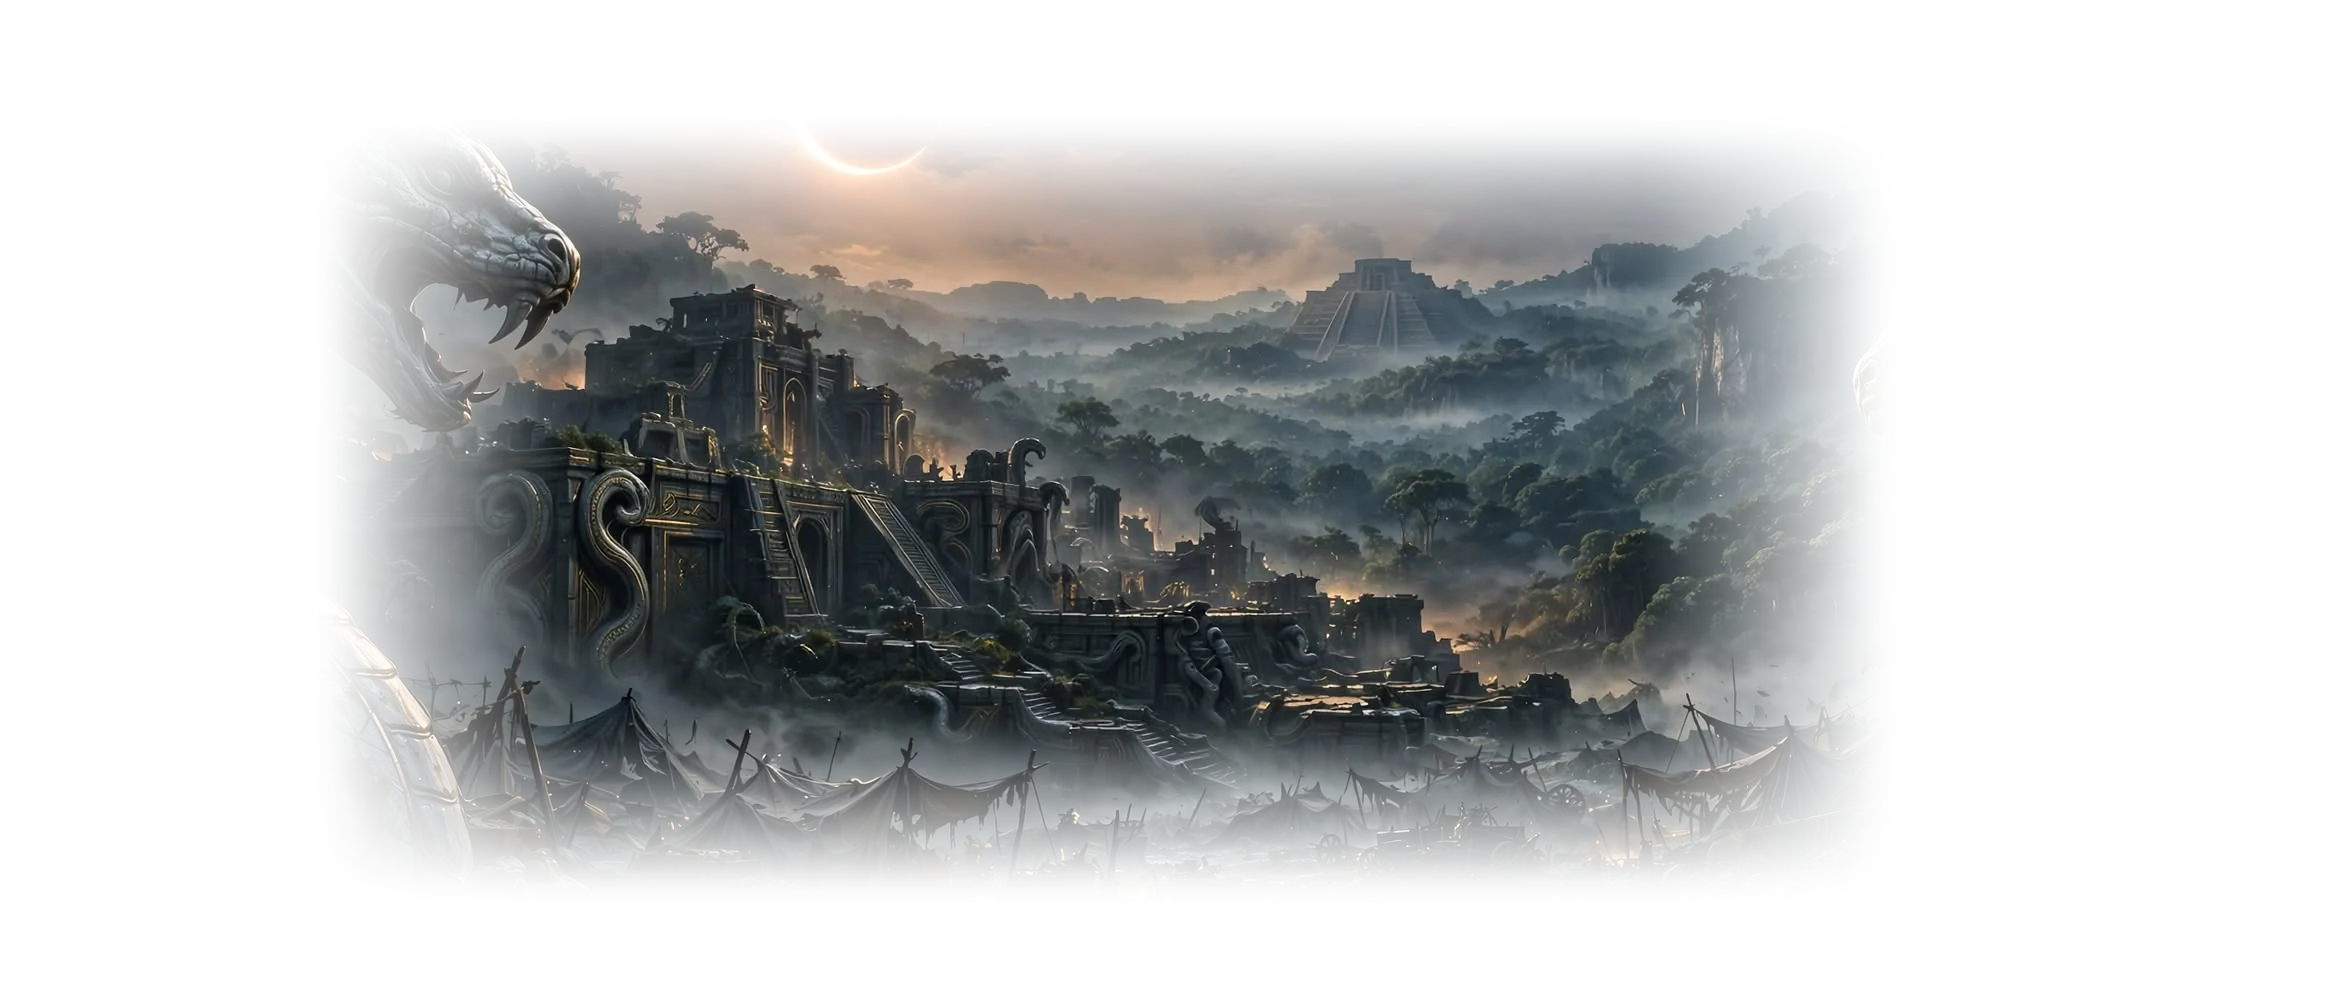
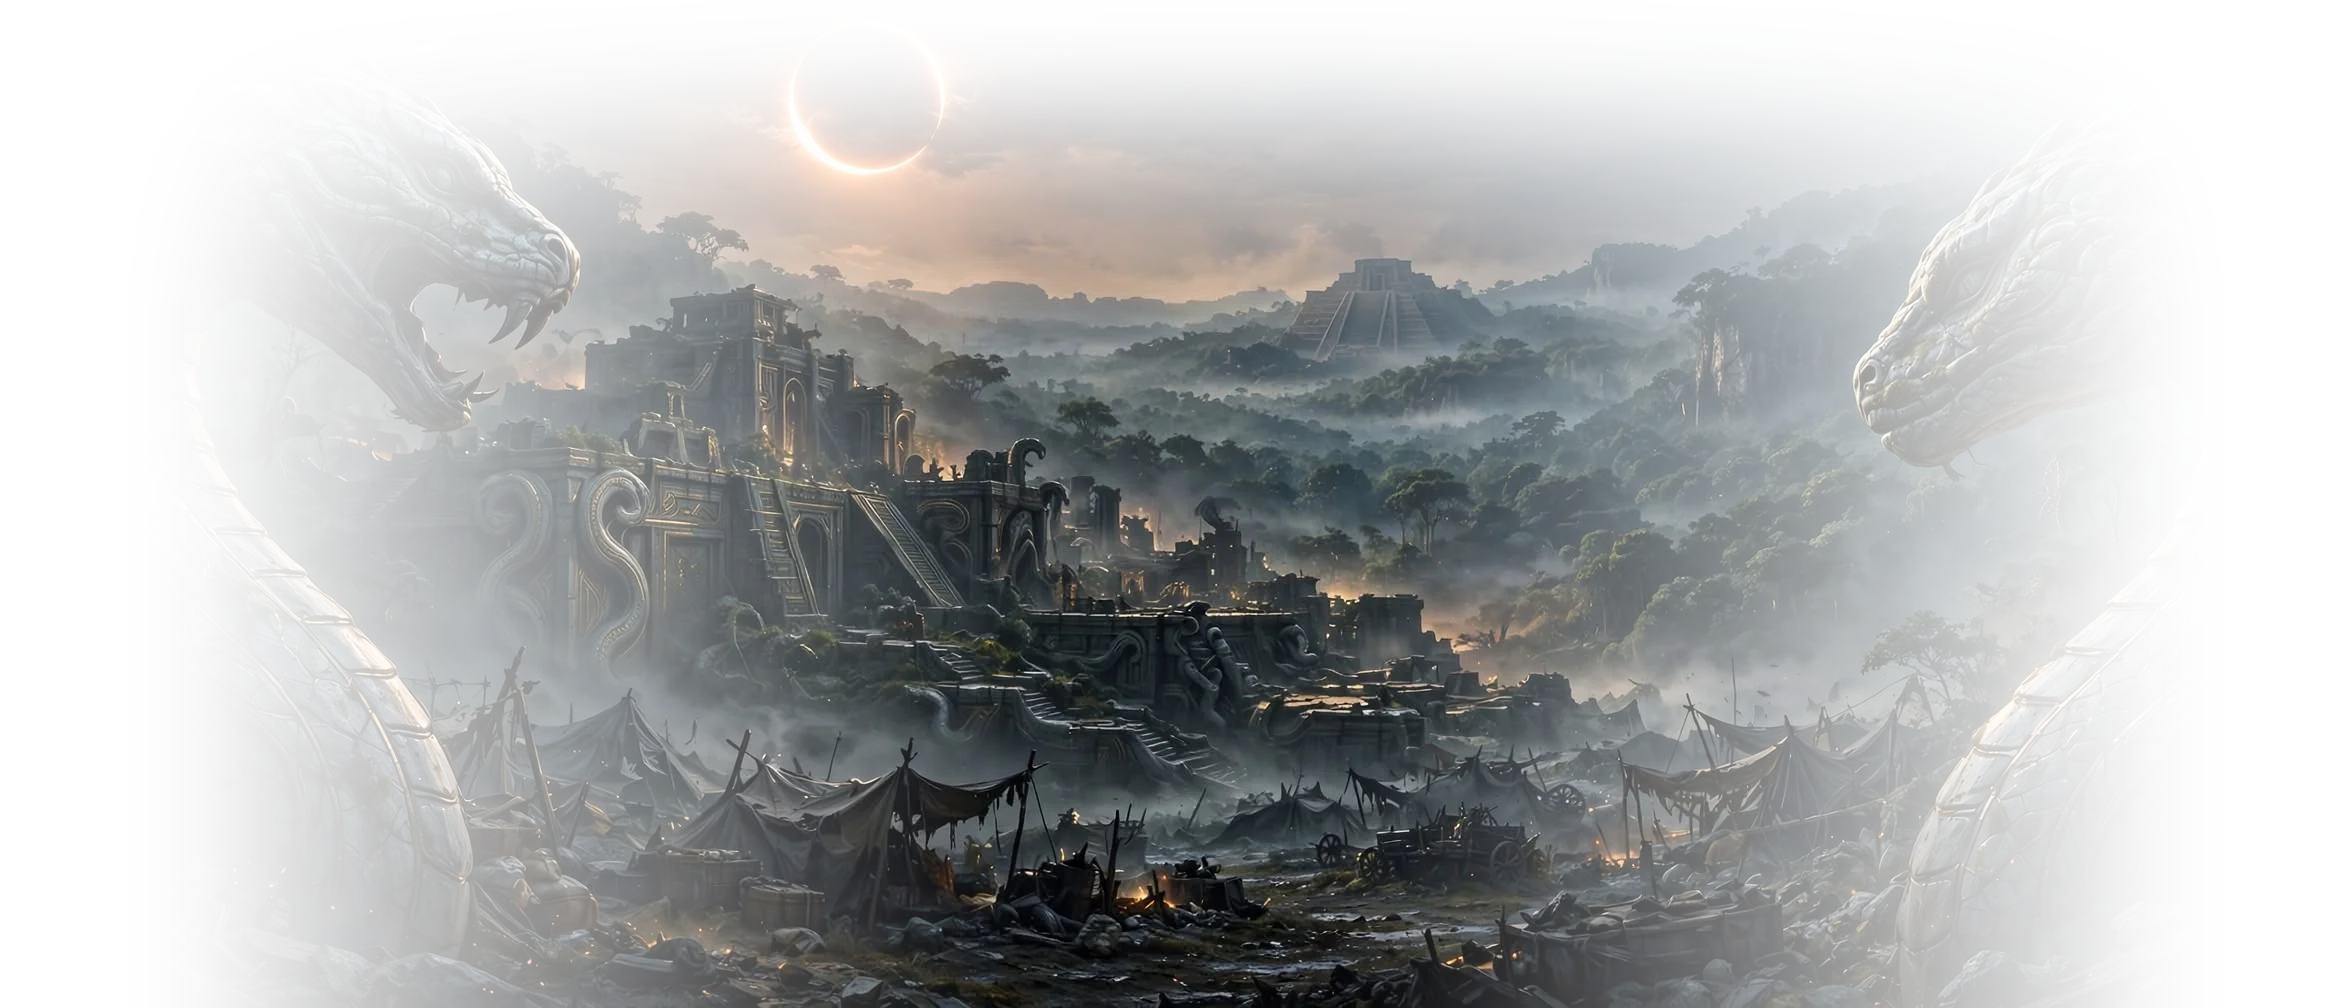
fix(hero): 修掉捲動時的圖層破版與提示文字常駐
兩個視覺 bug，契約測不到，是靠 headless Chrome 截圖逐格看出來的。

Bug 2（SCROLL TO EXPLORE 捲到底還在）由 codex 修：.hero-prompt 的
opacity 綁上 --hero-progress，捲約 20% 即透明。此項一次到位。

Bug 1（圖層破版）codex 的第一版沒修好，根因追了三輪才定位，
過程中換過三種假設：

1. codex 加的 .scene-town { inset: -15% 0 -45% } 讓該層容器變成 160% 高，
   background-size: cover 改以高度為基準、圖被放大 1.2 倍且左右各裁 691px，
   與 inset:0 的 sky 層（放大 0.75 倍）裁切範圍不一致 → 兩層內容錯位。
   → 移除該 inset。
2. town 素材原本左右收邊，羽化交界在畫面內可見；改成水平全滿後，
   town 與 frame 都含巨蛇、兩層 scale 不同 → 同一條蛇出現兩次（鬼影）。
   → 重產 town.webp，羽化改成與 frame 互補（兩層 alpha 相加恆為 255）。
3. 真正的元凶：--frame-x 讓 frame 層「整層」向右平移 222px，
   左邊界從 0 跑到 194，露出下層形成筆直垂直線。
   實測 .scene-frame left=194 transform=matrix(1.04,0,0,1.04,222.794,0) 佐證。
   frame 是左右兩側的框景物，視差應左右對稱外擴，不能整層單向平移
   （原始 Mostar 規格用兩個獨立元素各往反方向移，我們只有一層）。
   → 改為純中心 scale。

素材同步重產：town.webp 與 frame.webp 的羽化改為互補，三層合計 0.48 MB。

契約 9/9 通過，並已用截圖確認捲動全程無破版、無鬼影、無硬邊。

Claude-Session: https://claude.ai/code/session_01Er7bfpa6tVLNCT5nbGTNL1

diff --git a/static/style.css b/static/style.css
@@ -81,7 +81,7 @@ a { color: inherit; text-decoration: none; }
   background-image: url("scene/frame.webp"), linear-gradient(90deg, rgba(5, 6, 10, .9), transparent 25%, transparent 75%, rgba(5, 6, 10, .9));
   background-size: cover;
   background-position: center;
-  transform: translate3d(var(--frame-x), 0, 0) scale(1.04);
+  transform: scale(calc(1.04 + var(--hero-progress) * 0.30));
 }
 .hero-shade {
   z-index: 3;
@@ -110,7 +110,7 @@ a { color: inherit; text-decoration: none; }
   text-shadow: 0 4px 30px rgba(0, 0, 0, .65);
   transition: opacity .15s linear;
 }
-.hero-prompt { margin-bottom: 18px; opacity: .72; }
+.hero-prompt { margin-bottom: 18px; opacity: max(0, calc(.72 * (1 - var(--hero-progress) * 5))); }
 .cta-grid { display: grid; grid-template-columns: repeat(5, minmax(130px, 1fr)); gap: 10px; width: min(1120px, 100%); opacity: var(--cards-opacity); transform: translate3d(0, var(--cards-y), 0); will-change: transform, opacity; }
 .cta-card {
   min-height: 112px;
